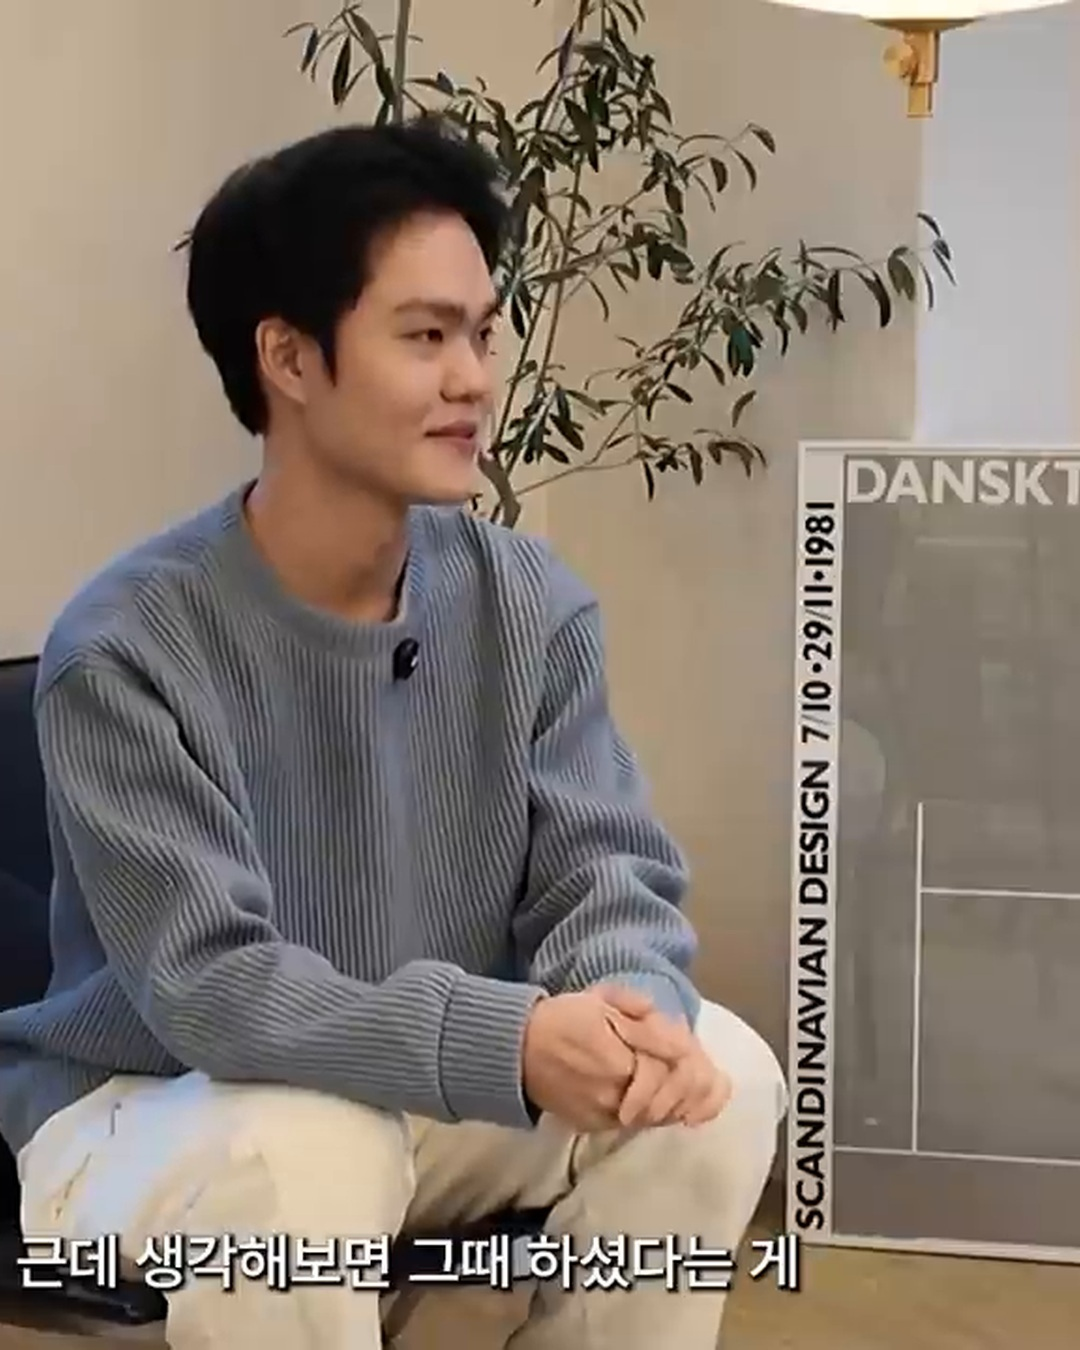
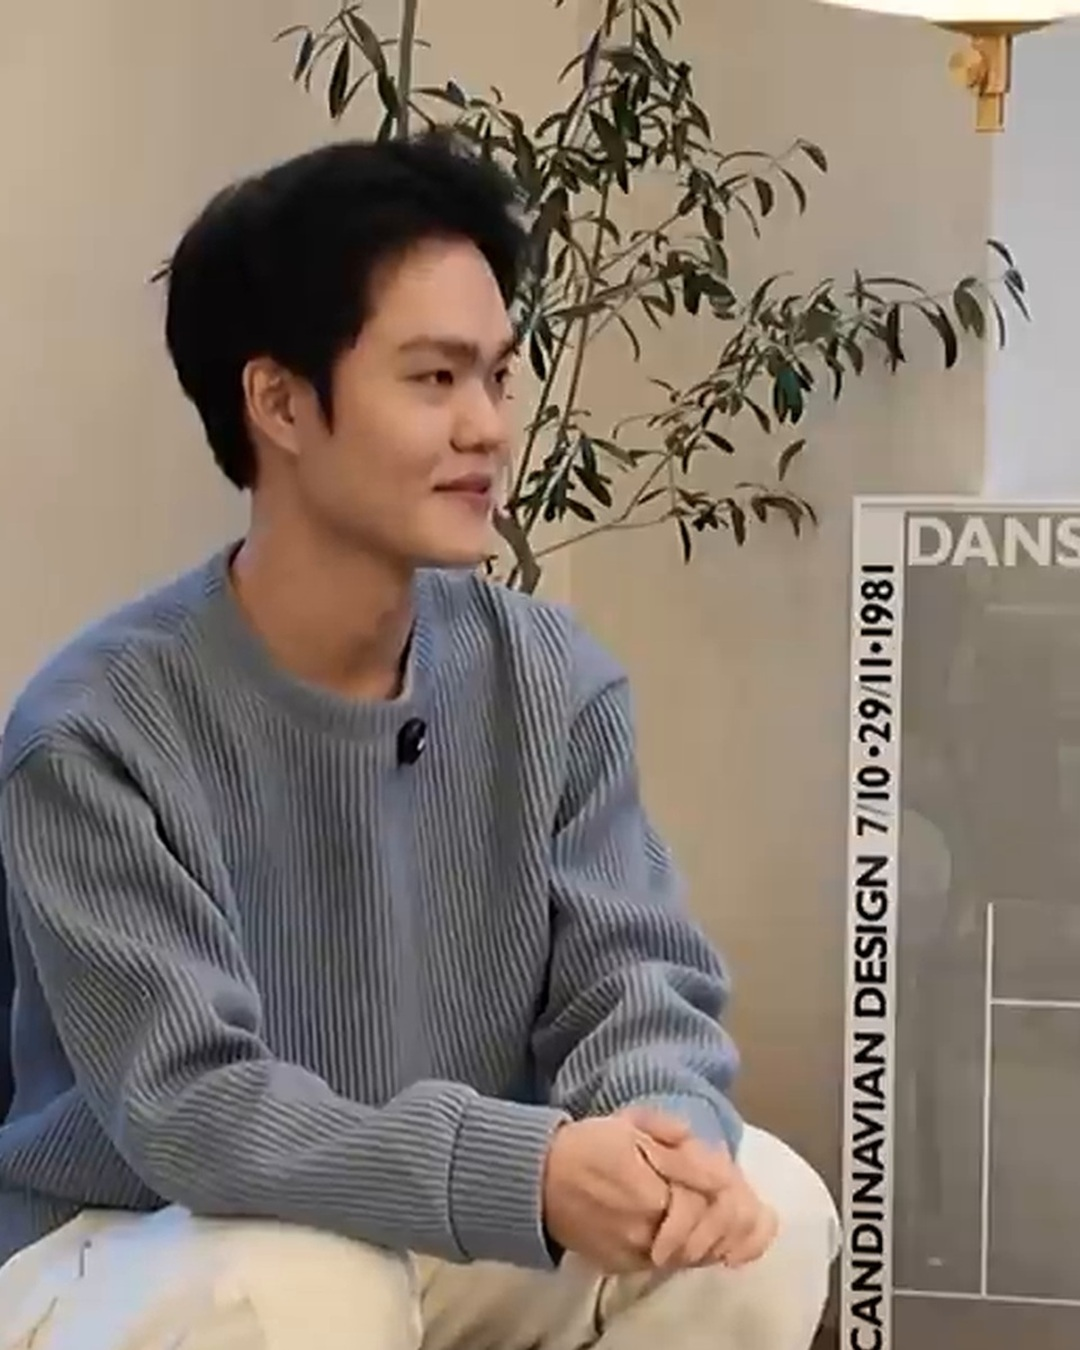
card: leetthen 표지 자막 잘라냄(게시 안 함)

diff --git a/media/20261120-leetthen/build_cards.py b/media/20261120-leetthen/build_cards.py
@@ -5,7 +5,7 @@ from pathlib import Path
 from PIL import Image, ImageOps
 D = Path(__file__).parent; R = D.parents[1]; O = D / "cand"
 # 표지: 백지연 채널 인터뷰 장면(이전 게시물 표지에 안 쓴 사진). 채널 로고 없는 영역으로 자른 cover_b.jpg 사용
-Image.open(O / "cover_b.jpg").convert("RGB").save(O / "cover_bg.jpg", quality=94)
+Image.open(O / "cover_b.jpg").convert("RGB").crop((40, 0, 1000, 1200)).resize((1080, 1350), Image.LANCZOS).save(O / "cover_bg.jpg", quality=94)  # 아래 자막 잘라냄
 W_ = dict(box_bg=[255, 255, 255])
 specs = [
  {"out": str(O / "c02.jpg"), "sub": "디시 싱글벙글 지구촌 갤러리 (7월 22일)", "title": "\"20년 만에 LEET '만점자 탄생'\"",
